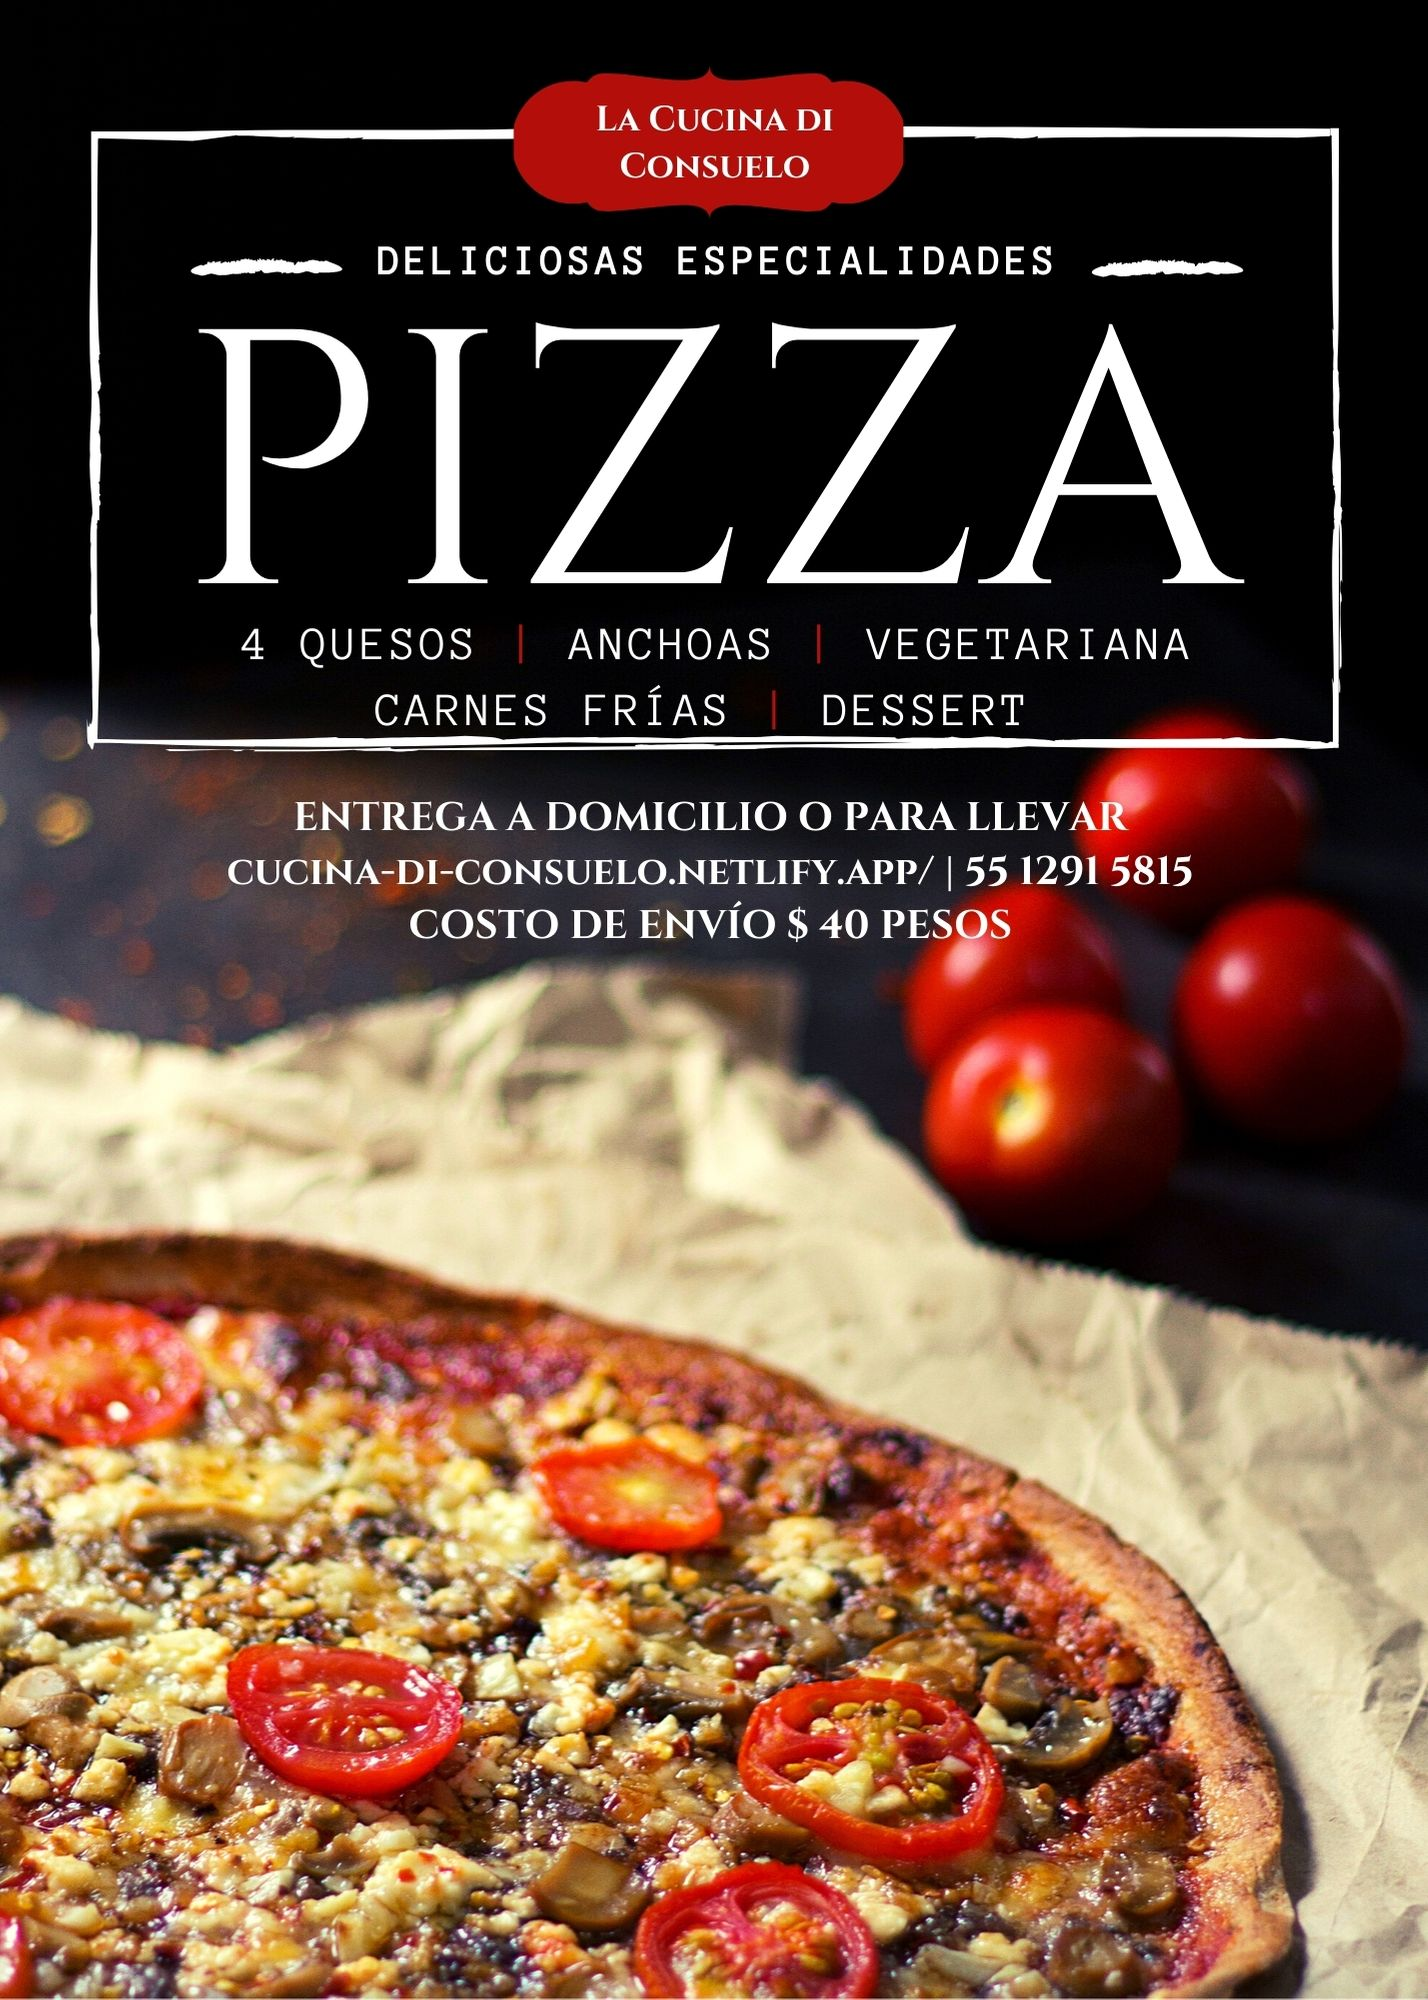
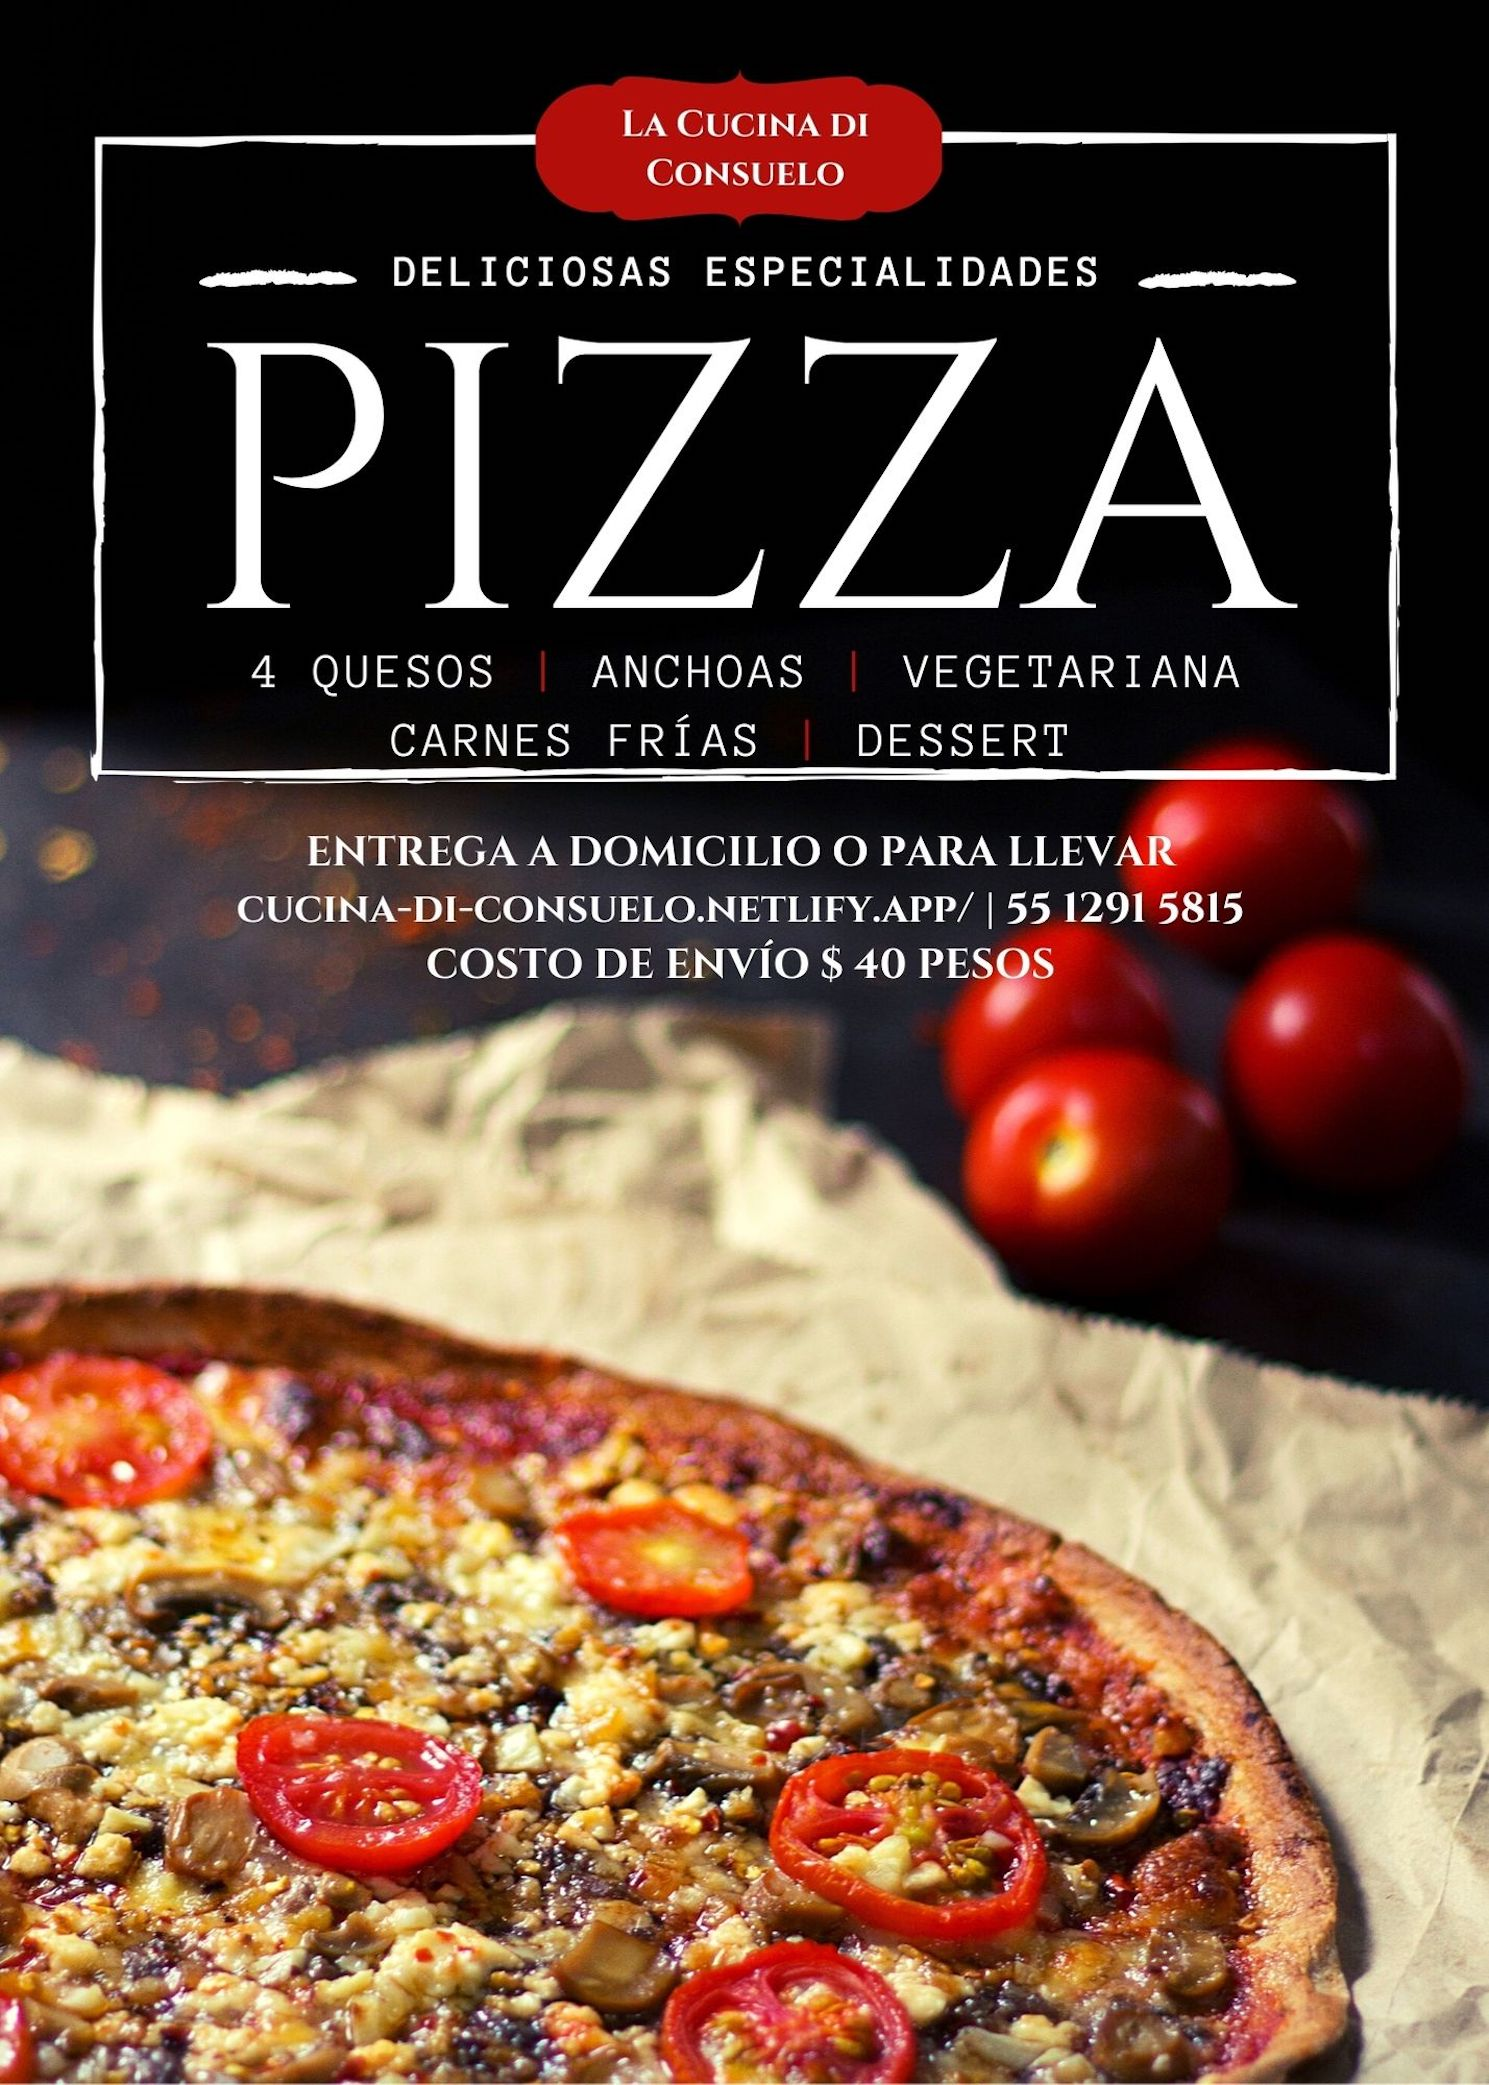
padding

Changed region(s): [[0.6162, 0.341, 0.6471, 0.372]]

diff --git a/index.html b/index.html
@@ -56,92 +56,136 @@
         data-bs-ride="carousel"
       >
         <div class="carousel-inner mt-3">
-          <div class="carousel-item active" data-bs-interval="1500">
-            <img src="./IMG/Flyer.jpg" class="d-block w-100 h-50" alt="..." />
+          <div class="carousel-item active p-3" data-bs-interval="1500">
+            <img
+              src="./IMG/Flyer.jpg"
+              class="d-block w-100 h-50 rounded"
+              alt="..."
+            />
           </div>
-          <div class="carousel-item" data-bs-interval="1500">
-            <img src="./IMG/Flyer2.jpg" class="d-block w-100 h-50" alt="..." />
+          <div class="carousel-item rounded" data-bs-interval="1500">
+            <img
+              src="./IMG/Flyer2.jpg"
+              class="d-block w-100 h-50 rounded"
+              alt="..."
+            />
           </div>
-          <div class="carousel-item" data-bs-interval="1500">
-            <img src="./IMG/Image1.jpeg" class="d-block w-100 h-50" alt="..." />
+          <div class="carousel-item p-3" data-bs-interval="1500">
+            <img
+              src="./IMG/Image1.jpeg"
+              class="d-block w-100 h-50 rounded"
+              alt="..."
+            />
           </div>
-          <div class="carousel-item" data-bs-interval="1500">
-            <img src="./IMG/Image2.jpeg" class="d-block w-100 h-50" alt="..." />
+          <div class="carousel-item p-3" data-bs-interval="1500">
+            <img
+              src="./IMG/Image2.jpeg"
+              class="d-block w-100 h-50 rounded"
+              alt="..."
+            />
           </div>
-          <div class="carousel-item" data-bs-interval="1500">
-            <img src="./IMG/Image3.jpeg" class="d-block w-100 h-50" alt="..." />
+          <div class="carousel-item p-3" data-bs-interval="1500">
+            <img
+              src="./IMG/Image3.jpeg"
+              class="d-block w-100 h-50 rounded"
+              alt="..."
+            />
           </div>
-          <div class="carousel-item" data-bs-interval="1500">
-            <img src="./IMG/Image4.jpeg" class="d-block w-100 h-50" alt="..." />
+          <div class="carousel-item p-3" data-bs-interval="1500">
+            <img
+              src="./IMG/Image4.jpeg"
+              class="d-block w-100 h-50 rounded"
+              alt="..."
+            />
           </div>
-          <div class="carousel-item" data-bs-interval="1500">
-            <img src="./IMG/Image5.jpeg" class="d-block w-100 h-50" alt="..." />
+          <div class="carousel-item p-3" data-bs-interval="1500">
+            <img
+              src="./IMG/Image5.jpeg"
+              class="d-block w-100 h-50 rounded"
+              alt="..."
+            />
           </div>
-          <div class="carousel-item" data-bs-interval="1500">
-            <img src="./IMG/Image6.jpeg" class="d-block w-100 h-50" alt="..." />
+          <div class="carousel-item p-3" data-bs-interval="1500">
+            <img
+              src="./IMG/Image6.jpeg"
+              class="d-block w-100 h-50 rounded"
+              alt="..."
+            />
           </div>
-          <div class="carousel-item" data-bs-interval="1500">
-            <img src="./IMG/Image7.jpeg" class="d-block w-100 h-50" alt="..." />
+          <div class="carousel-item p-3" data-bs-interval="1500">
+            <img
+              src="./IMG/Image7.jpeg"
+              class="d-block w-100 h-50 rounded"
+              alt="..."
+            />
           </div>
-          <div class="carousel-item" data-bs-interval="1500">
-            <img src="./IMG/Image8.jpeg" class="d-block w-100 h-50" alt="..." />
+          <div class="carousel-item p-3" data-bs-interval="1500">
+            <img
+              src="./IMG/Image8.jpeg"
+              class="d-block w-100 h-50 rounded"
+              alt="..."
+            />
           </div>
-          <div class="carousel-item" data-bs-interval="1500">
-            <img src="./IMG/Image9.jpeg" class="d-block w-100 h-50" alt="..." />
+          <div class="carousel-item p-3" data-bs-interval="1500">
+            <img
+              src="./IMG/Image9.jpeg"
+              class="d-block w-100 h-50 rounded"
+              alt="..."
+            />
           </div>
-          <div class="carousel-item" data-bs-interval="1500">
+          <div class="carousel-item p-3" data-bs-interval="1500">
             <img
               src="./IMG/Image10.jpeg"
-              class="d-block w-100 h-50"
+              class="d-block w-100 h-50 rounded"
               alt="..."
             />
           </div>
-          <div class="carousel-item" data-bs-interval="1500">
+          <div class="carousel-item p-3" data-bs-interval="1500">
             <img
               src="./IMG/Image11.jpeg"
-              class="d-block w-100 h-50"
+              class="d-block w-100 h-50 rounded"
               alt="..."
             />
           </div>
-          <div class="carousel-item" data-bs-interval="1500">
+          <div class="carousel-item p-3" data-bs-interval="1500">
             <img
               src="./IMG/Image12.jpeg"
-              class="d-block w-100 h-50"
+              class="d-block w-100 h-50 rounded"
               alt="..."
             />
           </div>
-          <div class="carousel-item" data-bs-interval="1500">
+          <div class="carousel-item p-3" data-bs-interval="1500">
             <img
               src="./IMG/Image13.jpeg"
-              class="d-block w-100 h-50"
+              class="d-block w-100 h-50 rounded"
               alt="..."
             />
           </div>
-          <div class="carousel-item" data-bs-interval="1500">
+          <div class="carousel-item p-3" data-bs-interval="1500">
             <img
               src="./IMG/Image14.jpeg"
-              class="d-block w-100 h-50"
+              class="d-block w-100 h-50 rounded"
               alt="..."
             />
           </div>
-          <div class="carousel-item" data-bs-interval="1500">
+          <div class="carousel-item p-3" data-bs-interval="1500">
             <img
               src="./IMG/Image15.jpeg"
-              class="d-block w-100 h-50"
+              class="d-block w-100 h-50 rounded"
               alt="..."
             />
           </div>
-          <div class="carousel-item" data-bs-interval="1500">
+          <div class="carousel-item p-3" data-bs-interval="1500">
             <img
               src="./IMG/Image16.jpeg"
-              class="d-block w-100 h-50"
+              class="d-block w-100 h-50 rounded"
               alt="..."
             />
           </div>
-          <div class="carousel-item" data-bs-interval="1500">
+          <div class="carousel-item p-3" data-bs-interval="1500">
             <img
               src="./IMG/Image17.jpeg"
-              class="d-block w-100 h-50"
+              class="d-block w-100 h-50 rounded"
               alt="..."
             />
           </div>
